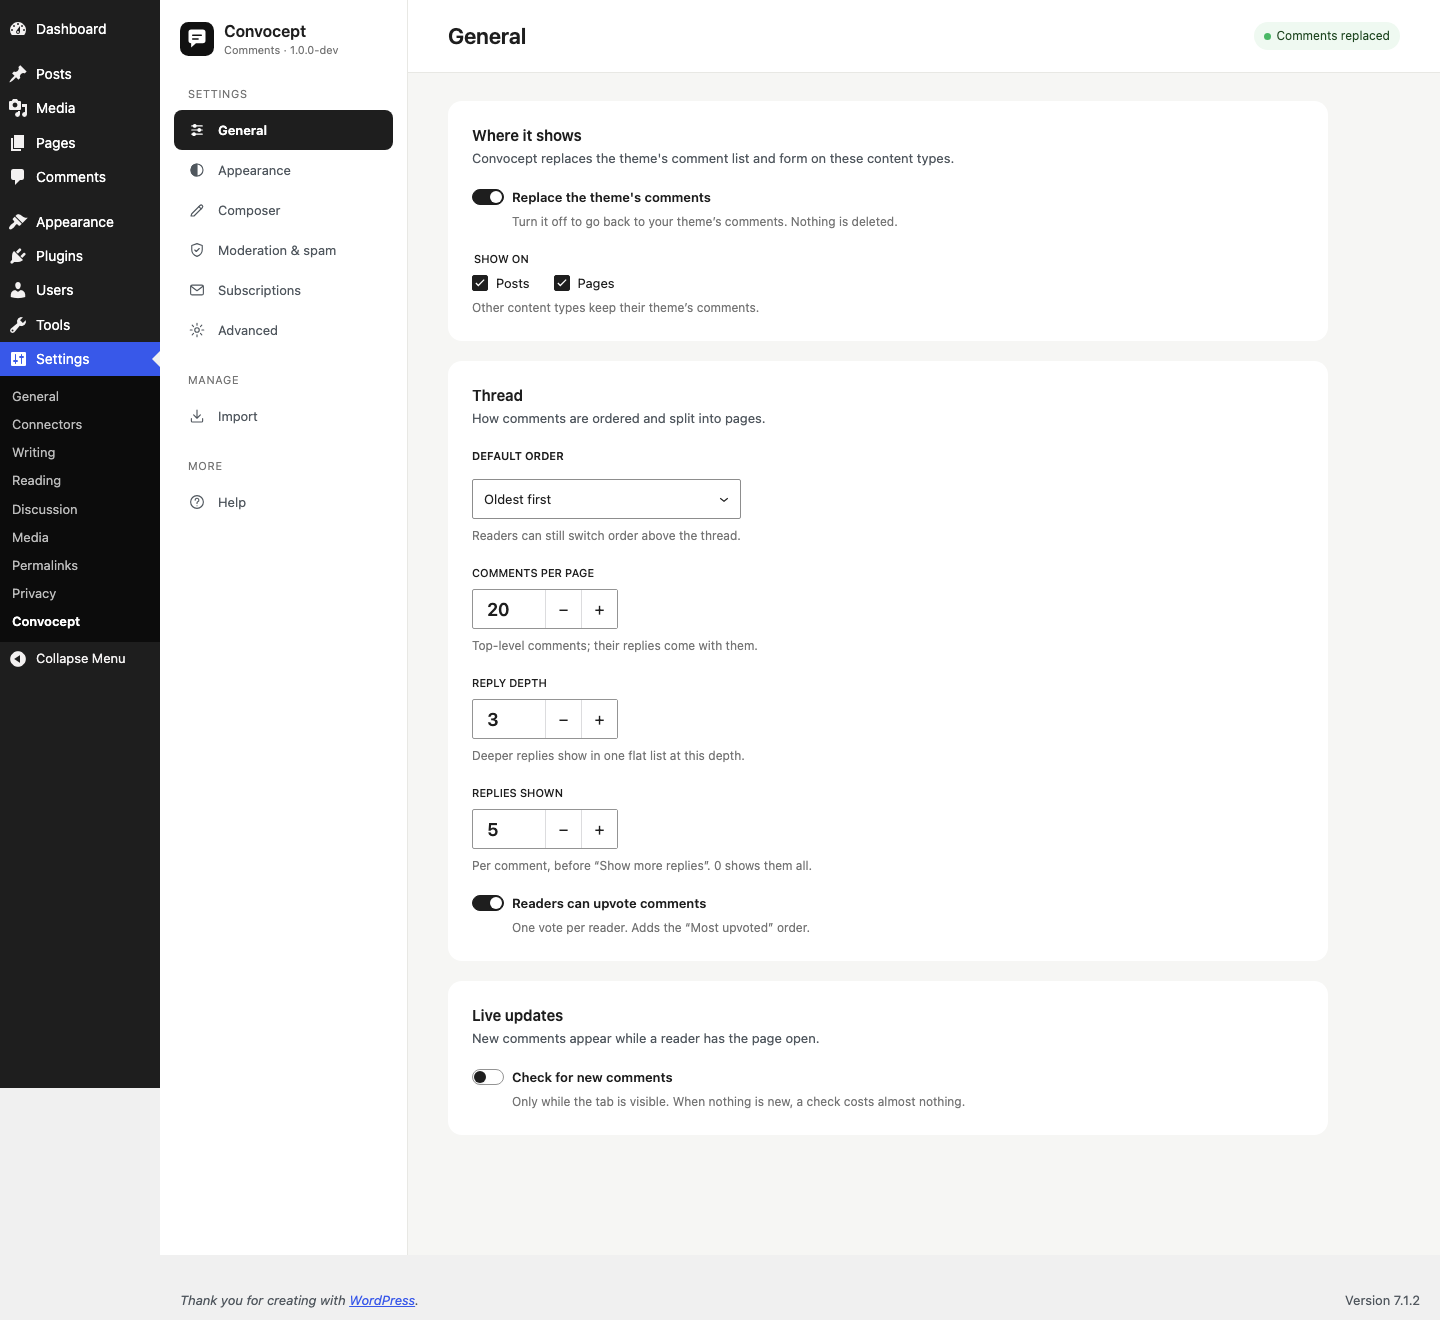
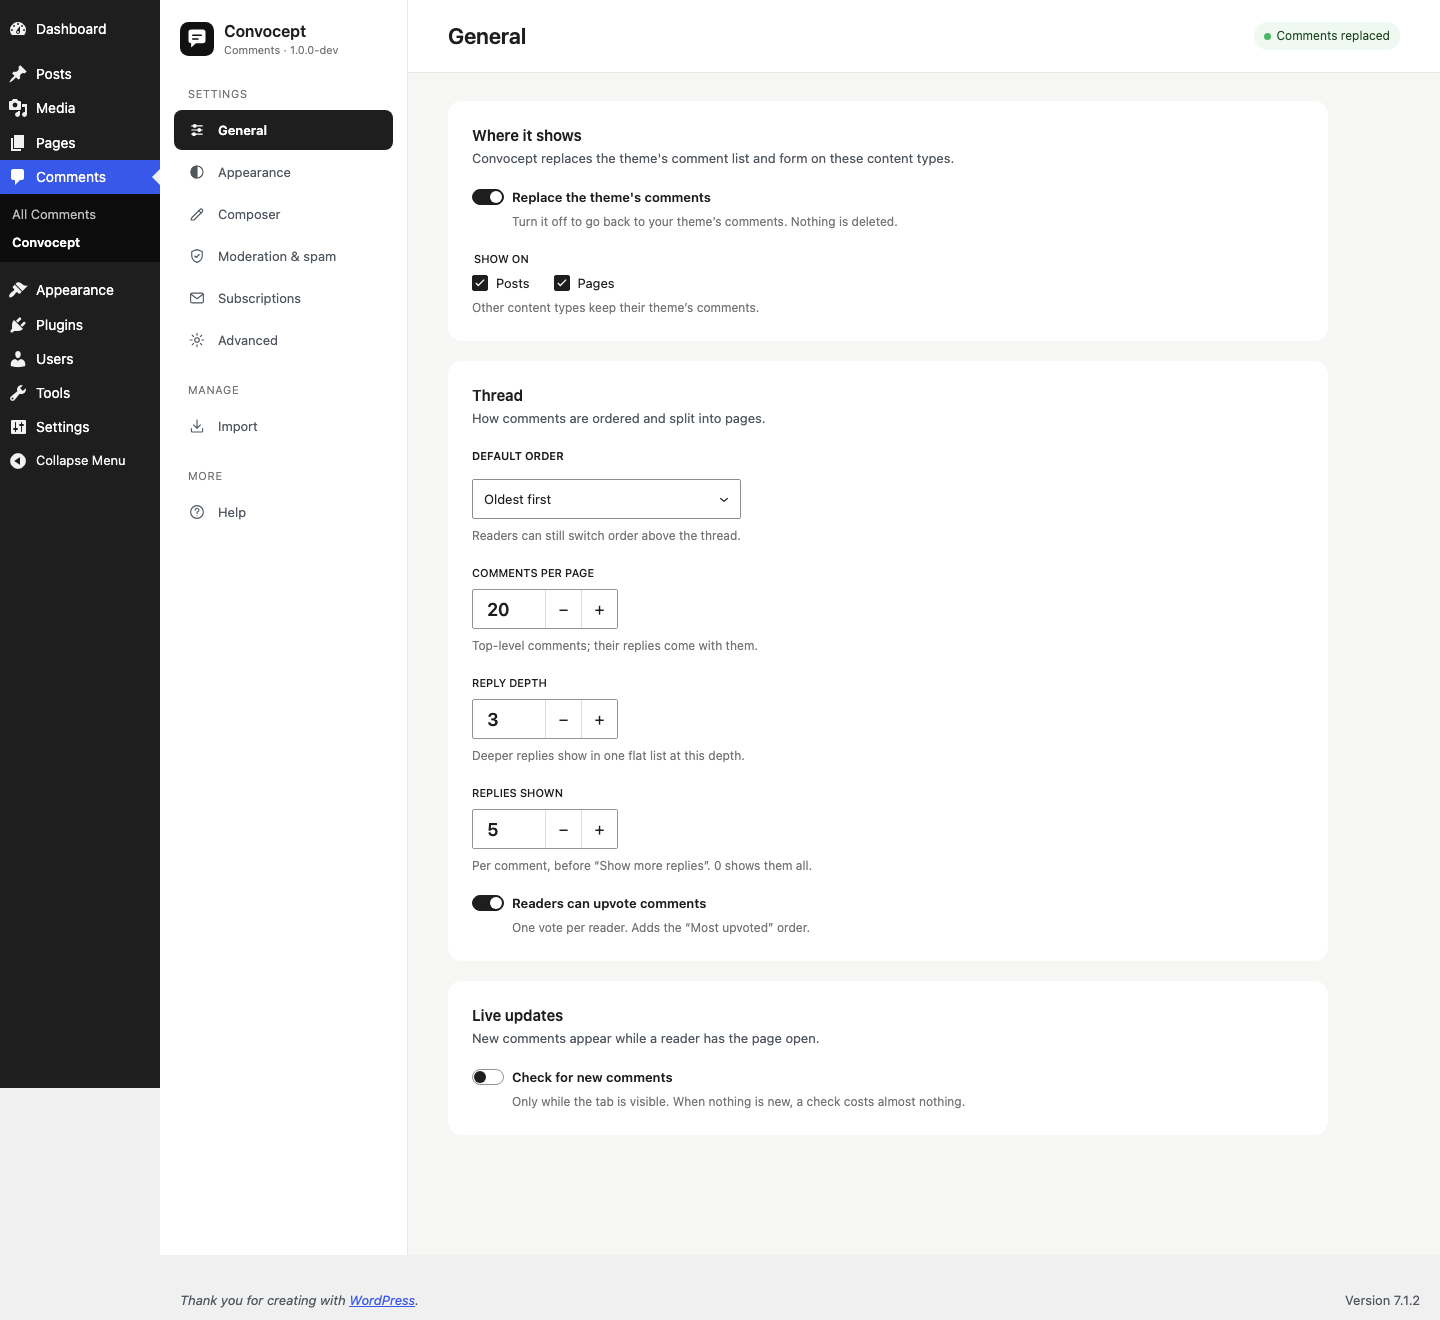
Move the settings screen to Comments → Convocept; redirect the old Settings address

Changed region(s): [[0.0, 0.1242, 0.2188, 0.4038], [0.0, 0.4659, 0.0625, 0.528], [0.0, 0.4038, 0.0312, 0.4348]]

diff --git a/tests/e2e/specs/settings.spec.js b/tests/e2e/specs/settings.spec.js
@@ -1,7 +1,7 @@
 /**
  * End-to-end tests for the settings screen (M9).
  *
- * Settings → Convocept: sidebar navigation, the save bar, validation,
+ * Comments → Convocept: sidebar navigation, the save bar, validation,
  * saving and the effect on the front end, and the narrow-screen dropdown.
  */
 
@@ -10,7 +10,7 @@
  */
 const { test, expect } = require( '@wordpress/e2e-test-utils-playwright' );
 
-const SCREEN = 'options-general.php';
+const SCREEN = 'edit-comments.php';
 const QUERY = 'page=convocept';
 
 test.describe( 'Settings screen', () => {
@@ -145,5 +145,19 @@ test.describe( 'Settings screen', () => {
 		await expect(
 			page.getByRole( 'heading', { level: 1, name: 'Advanced' } )
 		).toBeVisible();
+	} );
+
+	test( 'the screen lives under Comments; the old Settings address redirects', async ( {
+		admin,
+		page,
+	} ) => {
+		await admin.visitAdminPage( 'options-general.php', 'page=convocept' );
+
+		expect( new URL( page.url() ).pathname ).toMatch(
+			/edit-comments\.php$/
+		);
+		await expect(
+			page.locator( '#menu-comments .wp-submenu a[aria-current="page"]' )
+		).toHaveText( 'Convocept' );
 	} );
 } );

diff --git a/tests/e2e/wporg/assets.spec.js b/tests/e2e/wporg/assets.spec.js
@@ -307,12 +307,12 @@ test.describe( 'WordPress.org assets', () => {
 	test( 'screenshots of the admin', async ( { page, requestUtils } ) => {
 		await page.setViewportSize( { width: 1440, height: 1000 } );
 
-		// 4. Settings → Convocept.
+		// 4. Comments → Convocept.
 		await requestUtils.rest( {
 			method: 'POST',
 			path: '/convocept-e2e/v1/reset-settings',
 		} );
-		await page.goto( '/wp-admin/options-general.php?page=convocept' );
+		await page.goto( '/wp-admin/edit-comments.php?page=convocept' );
 		await expect(
 			page.getByRole( 'heading', { level: 1, name: 'General' } )
 		).toBeVisible();
@@ -354,9 +354,7 @@ test.describe( 'WordPress.org assets', () => {
 			</post>`
 			)
 			.join( '' );
-		await page.goto(
-			'/wp-admin/options-general.php?page=convocept#import'
-		);
+		await page.goto( '/wp-admin/edit-comments.php?page=convocept#import' );
 		await page.getByLabel( 'Export file' ).setInputFiles( {
 			name: 'disqus-export.xml',
 			mimeType: 'text/xml',

diff --git a/tests/e2e/specs/import.spec.js b/tests/e2e/specs/import.spec.js
@@ -121,7 +121,7 @@ test.describe( 'Disqus importer', () => {
 			status: 'publish',
 		} );
 
-		await admin.visitAdminPage( 'options-general.php', 'page=convocept' );
+		await admin.visitAdminPage( 'edit-comments.php', 'page=convocept' );
 		await page
 			.getByRole( 'navigation', { name: 'Convocept sections' } )
 			.getByRole( 'link', { name: 'Import' } )
@@ -180,7 +180,7 @@ test.describe( 'Disqus importer', () => {
 		page,
 	} ) => {
 		await admin.visitAdminPage(
-			'options-general.php',
+			'edit-comments.php',
 			'page=convocept#import'
 		);
 		await page.getByLabel( 'Export file' ).setInputFiles( {

diff --git a/assets/src/admin/index.js b/assets/src/admin/index.js
@@ -1,7 +1,7 @@
 /**
  * Convocept settings screen (wp-admin only).
  *
- * Mounts the settings app on Settings → Convocept. Add-ons add pages with
+ * Mounts the settings app on Comments → Convocept. Add-ons add pages with
  * `window.convoceptAdmin.registerPanel()` from a script that loads after
  * this one (depend on the `convocept-admin` handle); the app mounts once
  * the DOM is ready, after every such script has run.

diff --git a/tests/e2e/specs/accessibility.spec.js b/tests/e2e/specs/accessibility.spec.js
@@ -259,7 +259,7 @@ test.describe( 'Accessibility', () => {
 	} );
 
 	test( 'settings screen, every page', async ( { admin, page } ) => {
-		await admin.visitAdminPage( 'options-general.php', 'page=convocept' );
+		await admin.visitAdminPage( 'edit-comments.php', 'page=convocept' );
 		const nav = page.getByRole( 'navigation', {
 			name: 'Convocept sections',
 		} );

diff --git a/src/Admin/SettingsPage.php b/src/Admin/SettingsPage.php
@@ -13,10 +13,12 @@ use Convocept\Settings\Settings;
 defined( 'ABSPATH' ) || exit;
 
 /**
- * Adds Settings → Convocept and loads the settings app on it.
+ * Adds Comments → Convocept and loads the settings app on it.
  *
- * The screen is a React app (assets/src/admin) built on the Foxe Plugin
- * Admin UI: a dark sidebar of pages grouped as Settings, Manage and More.
+ * It sits under Comments, next to the screens it works with, rather than
+ * under Settings. The screen is a React app (assets/src/admin) built on the
+ * Foxe Plugin Admin UI: a light sidebar of pages grouped as Settings,
+ * Manage and More.
  * PHP only prints the mount point and the data the app starts with, so
  * the first paint needs no REST request. The app's script and styles load
  * on this screen only.
@@ -77,6 +79,7 @@ class SettingsPage {
 	 */
 	public function register(): void {
 		add_action( 'admin_menu', array( $this, 'add_page' ) );
+		add_action( 'admin_init', array( $this, 'redirect_old_location' ) );
 		add_action( 'admin_enqueue_scripts', array( $this, 'enqueue' ) );
 		add_filter( 'plugin_action_links_' . plugin_basename( CONVOCEPT_FILE ), array( $this, 'action_links' ) );
 	}
@@ -90,26 +93,45 @@ class SettingsPage {
 	 * @return string
 	 */
 	public static function url( string $page = '' ): string {
-		$url = admin_url( 'options-general.php?page=' . self::SLUG );
+		$url = admin_url( 'edit-comments.php?page=' . self::SLUG );
 
 		return '' !== $page ? $url . '#' . rawurlencode( $page ) : $url;
 	}
 
 	/**
-	 * Add Settings → Convocept.
+	 * Add Comments → Convocept.
 	 *
 	 * @since 1.0.0
 	 *
 	 * @return void
 	 */
 	public function add_page(): void {
-		$this->hook_suffix = (string) add_options_page(
+		$this->hook_suffix = (string) add_comments_page(
 			__( 'Convocept', 'convocept' ),
 			__( 'Convocept', 'convocept' ),
 			'manage_options',
 			self::SLUG,
 			array( $this, 'render' )
 		);
+	}
+
+	/**
+	 * Send the screen's earlier address (under Settings) to its new place.
+	 *
+	 * Keeps bookmarks and links in older docs or notices working.
+	 *
+	 * @since 1.0.0
+	 *
+	 * @return void
+	 */
+	public function redirect_old_location(): void {
+		global $pagenow;
+
+		// phpcs:ignore WordPress.Security.NonceVerification.Recommended -- Read-only redirect.
+		if ( 'options-general.php' === $pagenow && isset( $_GET['page'] ) && self::SLUG === $_GET['page'] ) {
+			wp_safe_redirect( self::url() );
+			exit;
+		}
 	}
 
 	/**

diff --git a/tests/php/Admin/SettingsPageTest.php b/tests/php/Admin/SettingsPageTest.php
@@ -42,8 +42,8 @@ class SettingsPageTest extends TestCase {
 	public function test_page_is_added_under_settings(): void {
 		$this->page();
 
-		$this->assertSame( admin_url( 'options-general.php?page=convocept#import' ), SettingsPage::url( 'import' ) );
-		$this->assertNotEmpty( get_plugin_page_hookname( 'convocept', 'options-general.php' ) );
+		$this->assertSame( admin_url( 'edit-comments.php?page=convocept#import' ), SettingsPage::url( 'import' ) );
+		$this->assertNotEmpty( get_plugin_page_hookname( 'convocept', 'edit-comments.php' ) );
 	}
 
 	public function test_app_loads_on_its_own_screen_only(): void {
@@ -53,7 +53,7 @@ class SettingsPageTest extends TestCase {
 		$this->assertFalse( wp_script_is( SettingsPage::HANDLE, 'enqueued' ), 'Not on the Dashboard.' );
 
 		// The hook name depends on the admin menu globals, which tests don't build.
-		$page->enqueue( get_plugin_page_hookname( 'convocept', 'options-general.php' ) );
+		$page->enqueue( get_plugin_page_hookname( 'convocept', 'edit-comments.php' ) );
 		$this->assertTrue( wp_script_is( SettingsPage::HANDLE, 'enqueued' ) );
 		$this->assertTrue( wp_style_is( SettingsPage::HANDLE, 'enqueued' ) );
 		$this->assertStringContainsString( 'window.convoceptAdminBoot', implode( '', (array) wp_scripts()->get_data( SettingsPage::HANDLE, 'before' ) ) );

diff --git a/CLAUDE.md b/CLAUDE.md
@@ -14,7 +14,7 @@ after M8.
 - **Done:** M0–M7 (scaffolding, server-rendered thread, composer, replies/load more/deep links,
   lazy loading + cache + live updates, votes/pins/moderation, subscriptions, structured data)
   the Disqus part of M8 (`wp convocept import`; StCR/wpDiscuz are 1.1) and the 1.0 part of M9
-  (Settings → Convocept, React on the Foxe Plugin Admin UI design system), and M11
+  (Comments → Convocept, React on the Foxe Plugin Admin UI design system), and M11
   (privacy exporters/erasers and IP setting, opt-in data deletion on uninstall, server-built
   plural labels, axe checks in `tests/e2e/specs/accessibility.spec.js`). Milestones are
   marked ✅ in PLAN.md §8; per-milestone decisions are in `docs/decisions.md` (newest first).
@@ -22,7 +22,7 @@ after M8.
   re-run `npm run wporg:assets` and `npm run release`, then Plugin Check on the zip. M12 is
   otherwise done (name, readme, assets generator, docs/site/, Plugin Check, security review). Planned for 1.1: M13 Insights, M14 own Comments screen (beside core,
   not replacing it; see decisions.md). Settings live in the `convocept_settings` option, edited on
-  Settings → Convocept through `POST /convocept/v1/settings`.
+  Comments → Convocept through `POST /convocept/v1/settings`.
 - **Admin UI:** follow the "Foxe Plugin Admin UI" design system (claude.ai artifact
   https://claude.ai/artifact/DMUyGbeBUS6J38hLcS8dZF). Its components live in
   `assets/src/admin/ui/` (prefix `convocept-`, tokens `--convocept-*`), kept free of Convocept

diff --git a/PLAN.md b/PLAN.md
@@ -404,7 +404,7 @@ and via WP-CLI (`wp convocept import <source>`).
   large Disqus fixture imports without timeouts.
 
 ### M9 — Admin settings app (1.0.0 ships tabs + persistence; live preview and onboarding in 1.1/1.2) — 1.0 part ✅ done (Foxe Plugin Admin UI; sidebar pages instead of tabs)
-- React app under **Settings → Convocept** (or top-level "Comments → Convocept"):
+- React app under **Comments → Convocept** (moved there from Settings before 1.0):
   tabs General, Appearance, Composer, Moderation & Spam, Subscriptions, Import, Advanced.
 - Live preview of the thread with current appearance settings.
 - Settings stored in one option (`convocept_settings`), schema-validated via REST settings route.
@@ -476,7 +476,7 @@ widget, moderation emails, the post editor) all point there.
   `register_rest_field`; no second comments API. Capabilities as core (`moderate_comments`,
   `edit_comment`).
 - "Open in Convocept" link on the core Comments screen; core screen otherwise untouched.
-- Menu: the app moves from Settings → Convocept to a **Comments → Convocept** submenu (old URL
+- Menu: the app lives under **Comments → Convocept** (done before 1.0; the old Settings URL
   redirects), next to Comments → Insights (M13).
 - Later, opt-in only: setting "Use Convocept for the Comments menu" that points the core menu
   item at our page while `edit-comments.php` stays reachable. Off by default (WordPress.org

diff --git a/CHANGELOG.md b/CHANGELOG.md
@@ -6,7 +6,9 @@ and versions follow [Semantic Versioning](https://semver.org/).
 ## [Unreleased] — 1.0.0
 
 ### Added
-- Settings → Convocept → Help links to the documentation (docs.foxelabs.com). Sidebar items
+- The settings screen moved from Settings to **Comments → Convocept**, next to the screens it
+  works with; the old address redirects.
+- Comments → Convocept → Help links to the documentation (docs.foxelabs.com). Sidebar items
   sit 2px apart, so a hover highlight no longer touches the active item (design system version 6).
 - M12 release preparation: the plugin is now named "Convocept – Fast Native Comment System"
   on WordPress.org; `readme.txt` rewritten for 1.0.0. WordPress.org icon, banner and screenshots
@@ -28,7 +30,7 @@ and versions follow [Semantic Versioning](https://semver.org/).
   view, on the subscription page and on every settings page; keyboard focus and reduced motion
   are checked too.
 
-- M9 settings screen (Settings → Convocept), built on the Foxe Plugin Admin UI: pages for
+- M9 settings screen (Comments → Convocept), built on the Foxe Plugin Admin UI: pages for
   General, Appearance, Composer, Moderation & spam, Subscriptions, Advanced, Import and Help;
   a save bar that appears only with unsaved changes; messages under invalid fields; works down
   to phone widths. Settings are saved through a validated REST route. Disqus imports now run on

diff --git a/docs/decisions.md b/docs/decisions.md
@@ -2,6 +2,13 @@
 
 Decisions not fully covered by `PLAN.md`. Newest first.
 
+## 2026-09-28 — Settings screen under Comments
+- **Comments → Convocept instead of Settings → Convocept** (owner's call, before 1.0): the app
+  holds import today and moderation (M14) and Insights (M13) later, so it belongs with comments.
+  `add_comments_page()` with `manage_options`, so editors, who see the Comments menu, don't see
+  it. `options-general.php?page=convocept` redirects on `admin_init`. The Plugins-screen
+  "Settings" link and Tools → Import follow `SettingsPage::url()`.
+
 ## 2026-09-28 — M12 release preparation
 - **Name "Convocept – Fast Native Comment System"** in both the `Plugin Name` header and the
   readme title (WordPress.org shows the header; the readme title should match). "Convocept"

diff --git a/docs/hooks.md b/docs/hooks.md
@@ -92,7 +92,7 @@ Every hook Convocept exposes for add-ons and site code. Updated as hooks are add
 ## Settings screen (JavaScript)
 
 - `window.convoceptAdmin.registerPanel( { id, group, title, icon, keys, render } )` — add a page
-  to Settings → Convocept. `group` is `settings`, `manage` or `more`; `keys` are the settings the
+  to Comments → Convocept. `group` is `settings`, `manage` or `more`; `keys` are the settings the
   page edits (used to flag errors in the sidebar); `render` is a component receiving
   `{ draft, saved, update, errors, boot }`. Enqueue the script with `convocept-admin` as a
   dependency; pages are read when the DOM is ready.
